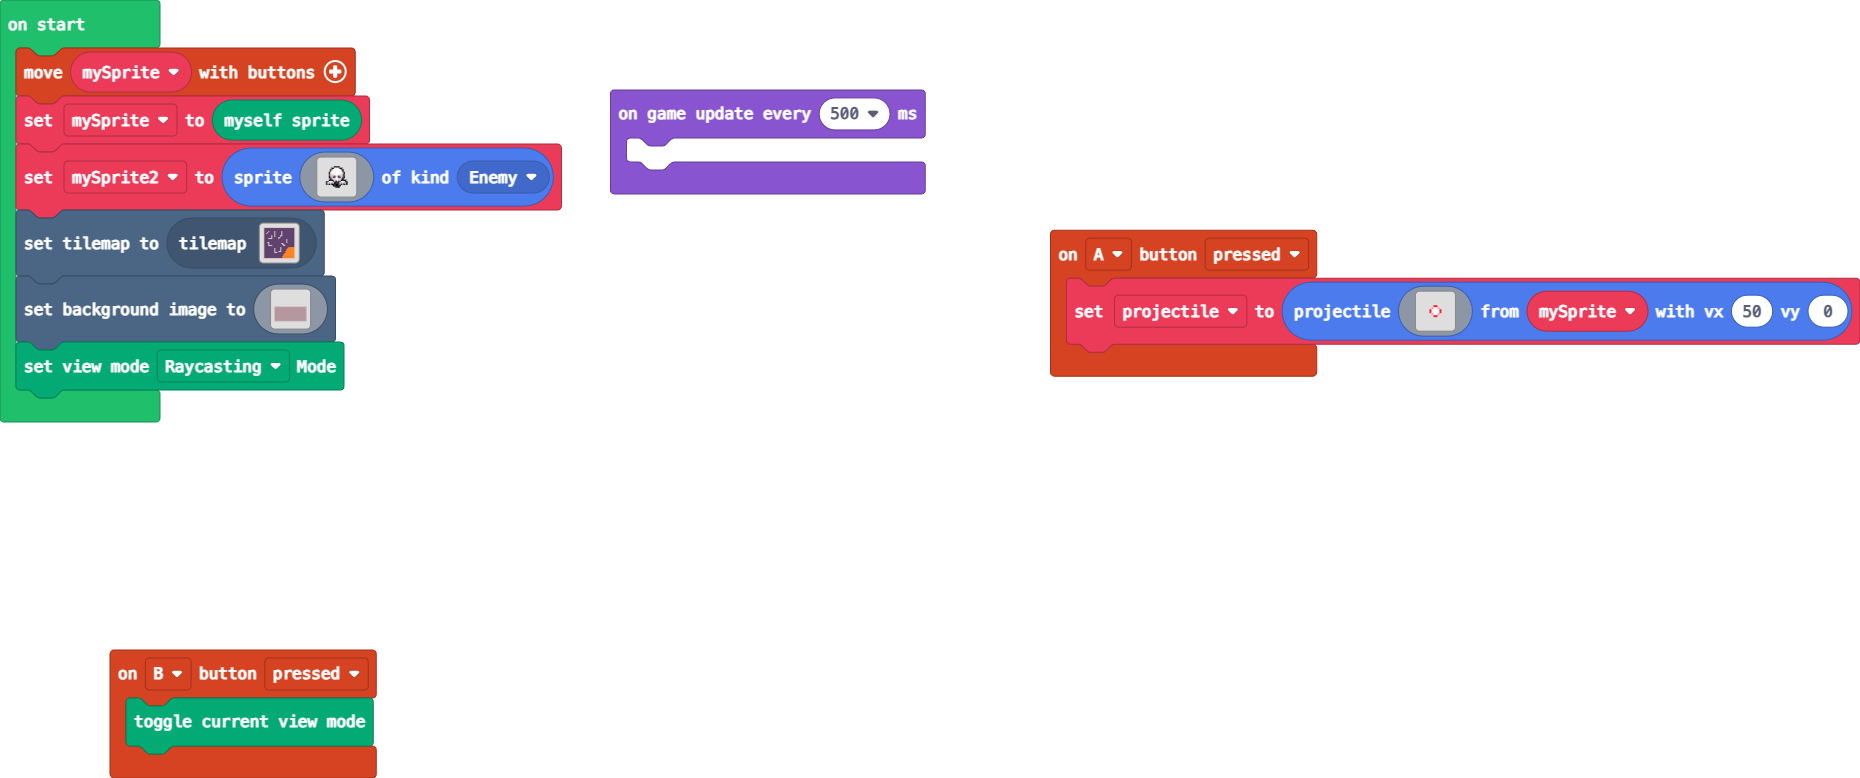
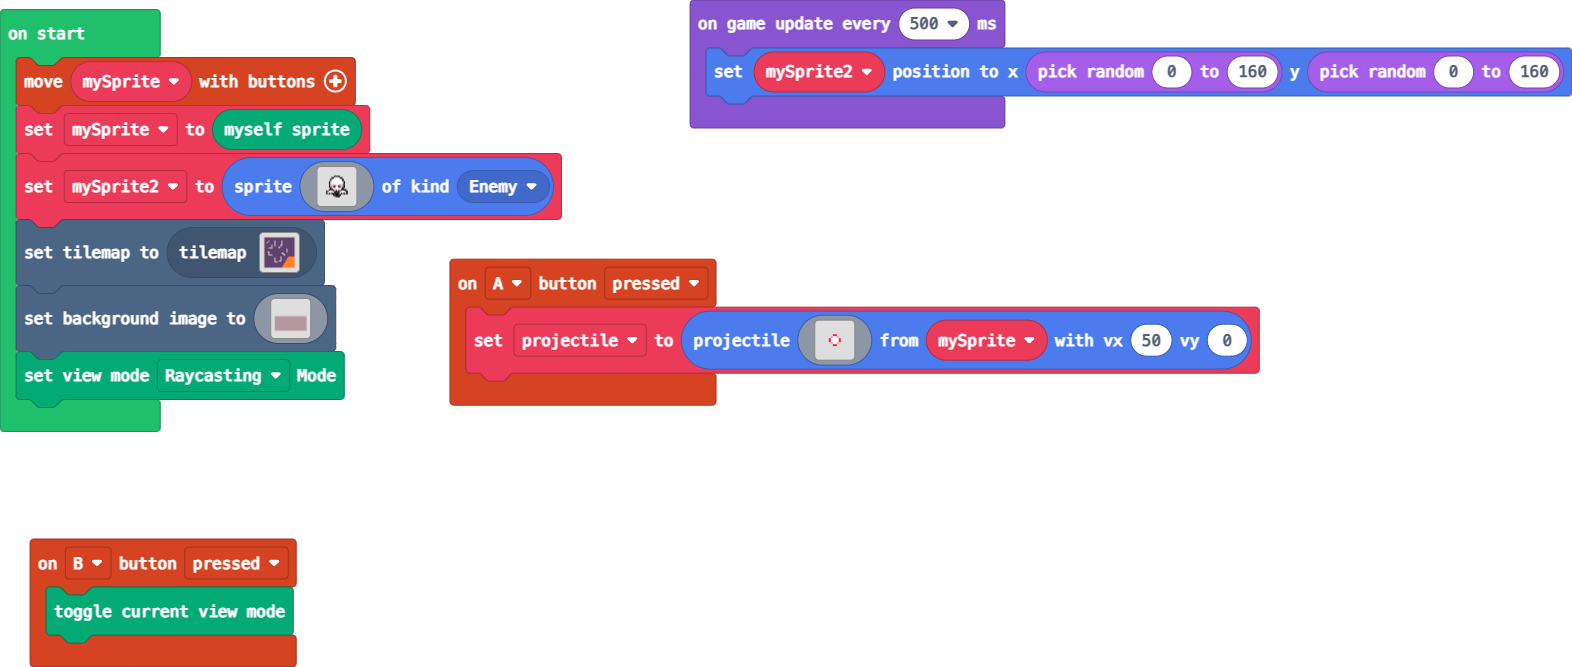
Update main.blocks, main.ts

diff --git a/main.ts b/main.ts
@@ -176,5 +176,5 @@ scene.setBackgroundImage(img`
     `)
 Render.setViewMode(ViewMode.raycastingView)
 game.onUpdateInterval(500, function () {
-	
+    mySprite2.setPosition(randint(0, 160), randint(0, 160))
 })
